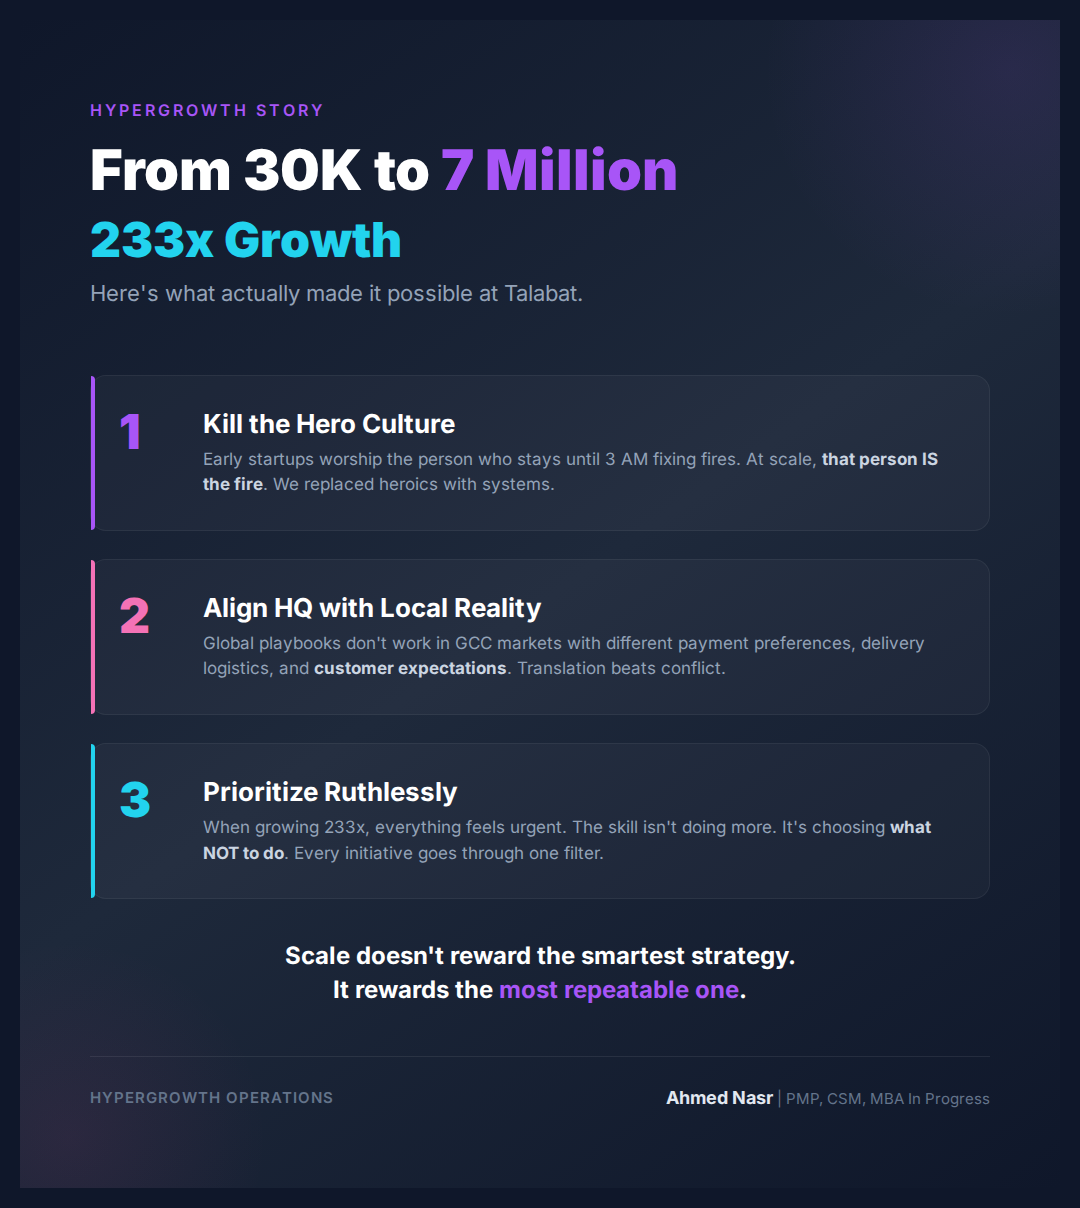
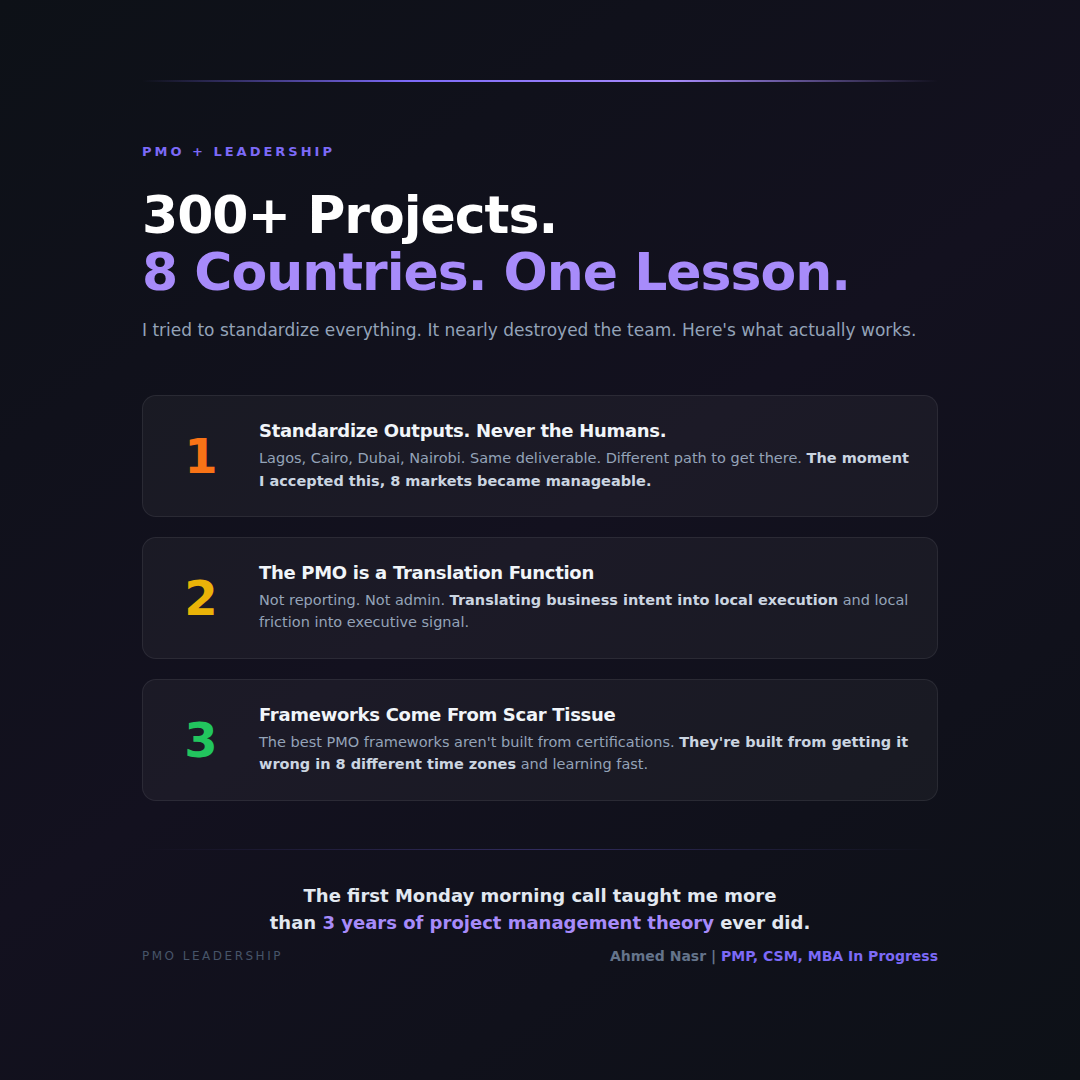
linkedin: Mon Mar 2 post image generated (PMO 8 countries)

diff --git a/linkedin/diagrams/linkedin-today.html b/linkedin/diagrams/linkedin-today.html
@@ -1,0 +1,221 @@
+<!DOCTYPE html>
+<html lang="en">
+<head>
+<meta charset="UTF-8">
+<meta name="viewport" content="width=device-width, initial-scale=1.0">
+<title>LinkedIn Post - Ahmed Nasr</title>
+<style>
+  * { margin: 0; padding: 0; box-sizing: border-box; }
+
+  body {
+    width: 1080px;
+    height: 1080px;
+    background: linear-gradient(145deg, #0d1117 0%, #13111f 50%, #0d1117 100%);
+    font-family: 'Segoe UI', system-ui, -apple-system, sans-serif;
+    color: #e2e8f0;
+    display: flex;
+    align-items: center;
+    justify-content: center;
+    overflow: hidden;
+  }
+
+  .card {
+    width: 940px;
+    padding: 64px 72px;
+    position: relative;
+  }
+
+  .category-tag {
+    font-size: 13px;
+    font-weight: 600;
+    letter-spacing: 3px;
+    text-transform: uppercase;
+    color: #7c6af7;
+    margin-bottom: 28px;
+  }
+
+  .headline {
+    font-size: 52px;
+    font-weight: 800;
+    line-height: 1.1;
+    color: #ffffff;
+    margin-bottom: 16px;
+    letter-spacing: -1px;
+  }
+
+  .headline .accent {
+    color: #a78bfa;
+  }
+
+  .subtitle {
+    font-size: 17px;
+    color: #94a3b8;
+    margin-bottom: 52px;
+    line-height: 1.5;
+    font-weight: 400;
+  }
+
+  .insight-grid {
+    display: flex;
+    flex-direction: column;
+    gap: 20px;
+    margin-bottom: 48px;
+  }
+
+  .insight-row {
+    display: flex;
+    align-items: center;
+    gap: 28px;
+    background: rgba(255,255,255,0.04);
+    border: 1px solid rgba(255,255,255,0.07);
+    border-radius: 14px;
+    padding: 24px 28px;
+  }
+
+  .insight-number {
+    font-size: 48px;
+    font-weight: 900;
+    min-width: 60px;
+    text-align: center;
+    line-height: 1;
+  }
+
+  .n1 { color: #f97316; }
+  .n2 { color: #eab308; }
+  .n3 { color: #22c55e; }
+
+  .insight-content h3 {
+    font-size: 18px;
+    font-weight: 700;
+    color: #f1f5f9;
+    margin-bottom: 6px;
+    letter-spacing: -0.3px;
+  }
+
+  .insight-content p {
+    font-size: 14.5px;
+    color: #94a3b8;
+    line-height: 1.55;
+  }
+
+  .insight-content p strong {
+    color: #cbd5e1;
+    font-weight: 600;
+  }
+
+  .divider {
+    height: 1px;
+    background: linear-gradient(90deg, transparent, rgba(124,106,247,0.3), transparent);
+    margin-bottom: 32px;
+  }
+
+  .takeaway {
+    text-align: center;
+    font-size: 18px;
+    font-weight: 700;
+    color: #e2e8f0;
+    line-height: 1.5;
+  }
+
+  .takeaway .highlight {
+    color: #a78bfa;
+  }
+
+  .footer {
+    position: absolute;
+    bottom: 36px;
+    left: 72px;
+    right: 72px;
+    display: flex;
+    justify-content: space-between;
+    align-items: center;
+  }
+
+  .footer-tag {
+    font-size: 12px;
+    letter-spacing: 2.5px;
+    text-transform: uppercase;
+    color: #475569;
+    font-weight: 500;
+  }
+
+  .footer-author {
+    font-size: 14px;
+    color: #64748b;
+    font-weight: 600;
+  }
+
+  .footer-author span {
+    color: #7c6af7;
+  }
+
+  /* Subtle top border glow */
+  .card::before {
+    content: '';
+    position: absolute;
+    top: 0;
+    left: 72px;
+    right: 72px;
+    height: 2px;
+    background: linear-gradient(90deg, transparent, #7c6af7, #a78bfa, transparent);
+    border-radius: 2px;
+  }
+</style>
+</head>
+<body>
+<div class="card">
+
+  <div class="category-tag">PMO + LEADERSHIP</div>
+
+  <div class="headline">
+    300+ Projects.<br>
+    <span class="accent">8 Countries. One Lesson.</span>
+  </div>
+
+  <div class="subtitle">
+    I tried to standardize everything. It nearly destroyed the team. Here's what actually works.
+  </div>
+
+  <div class="insight-grid">
+
+    <div class="insight-row">
+      <div class="insight-number n1">1</div>
+      <div class="insight-content">
+        <h3>Standardize Outputs. Never the Humans.</h3>
+        <p>Lagos, Cairo, Dubai, Nairobi. Same deliverable. Different path to get there. <strong>The moment I accepted this, 8 markets became manageable.</strong></p>
+      </div>
+    </div>
+
+    <div class="insight-row">
+      <div class="insight-number n2">2</div>
+      <div class="insight-content">
+        <h3>The PMO is a Translation Function</h3>
+        <p>Not reporting. Not admin. <strong>Translating business intent into local execution</strong> and local friction into executive signal.</p>
+      </div>
+    </div>
+
+    <div class="insight-row">
+      <div class="insight-number n3">3</div>
+      <div class="insight-content">
+        <h3>Frameworks Come From Scar Tissue</h3>
+        <p>The best PMO frameworks aren't built from certifications. <strong>They're built from getting it wrong in 8 different time zones</strong> and learning fast.</p>
+      </div>
+    </div>
+
+  </div>
+
+  <div class="divider"></div>
+
+  <div class="takeaway">
+    The first Monday morning call taught me more<br>
+    than <span class="highlight">3 years of project management theory</span> ever did.
+  </div>
+
+  <div class="footer">
+    <div class="footer-tag">PMO Leadership</div>
+    <div class="footer-author">Ahmed Nasr | <span>PMP, CSM, MBA In Progress</span></div>
+  </div>
+
+</div>
+</body>
+</html>
